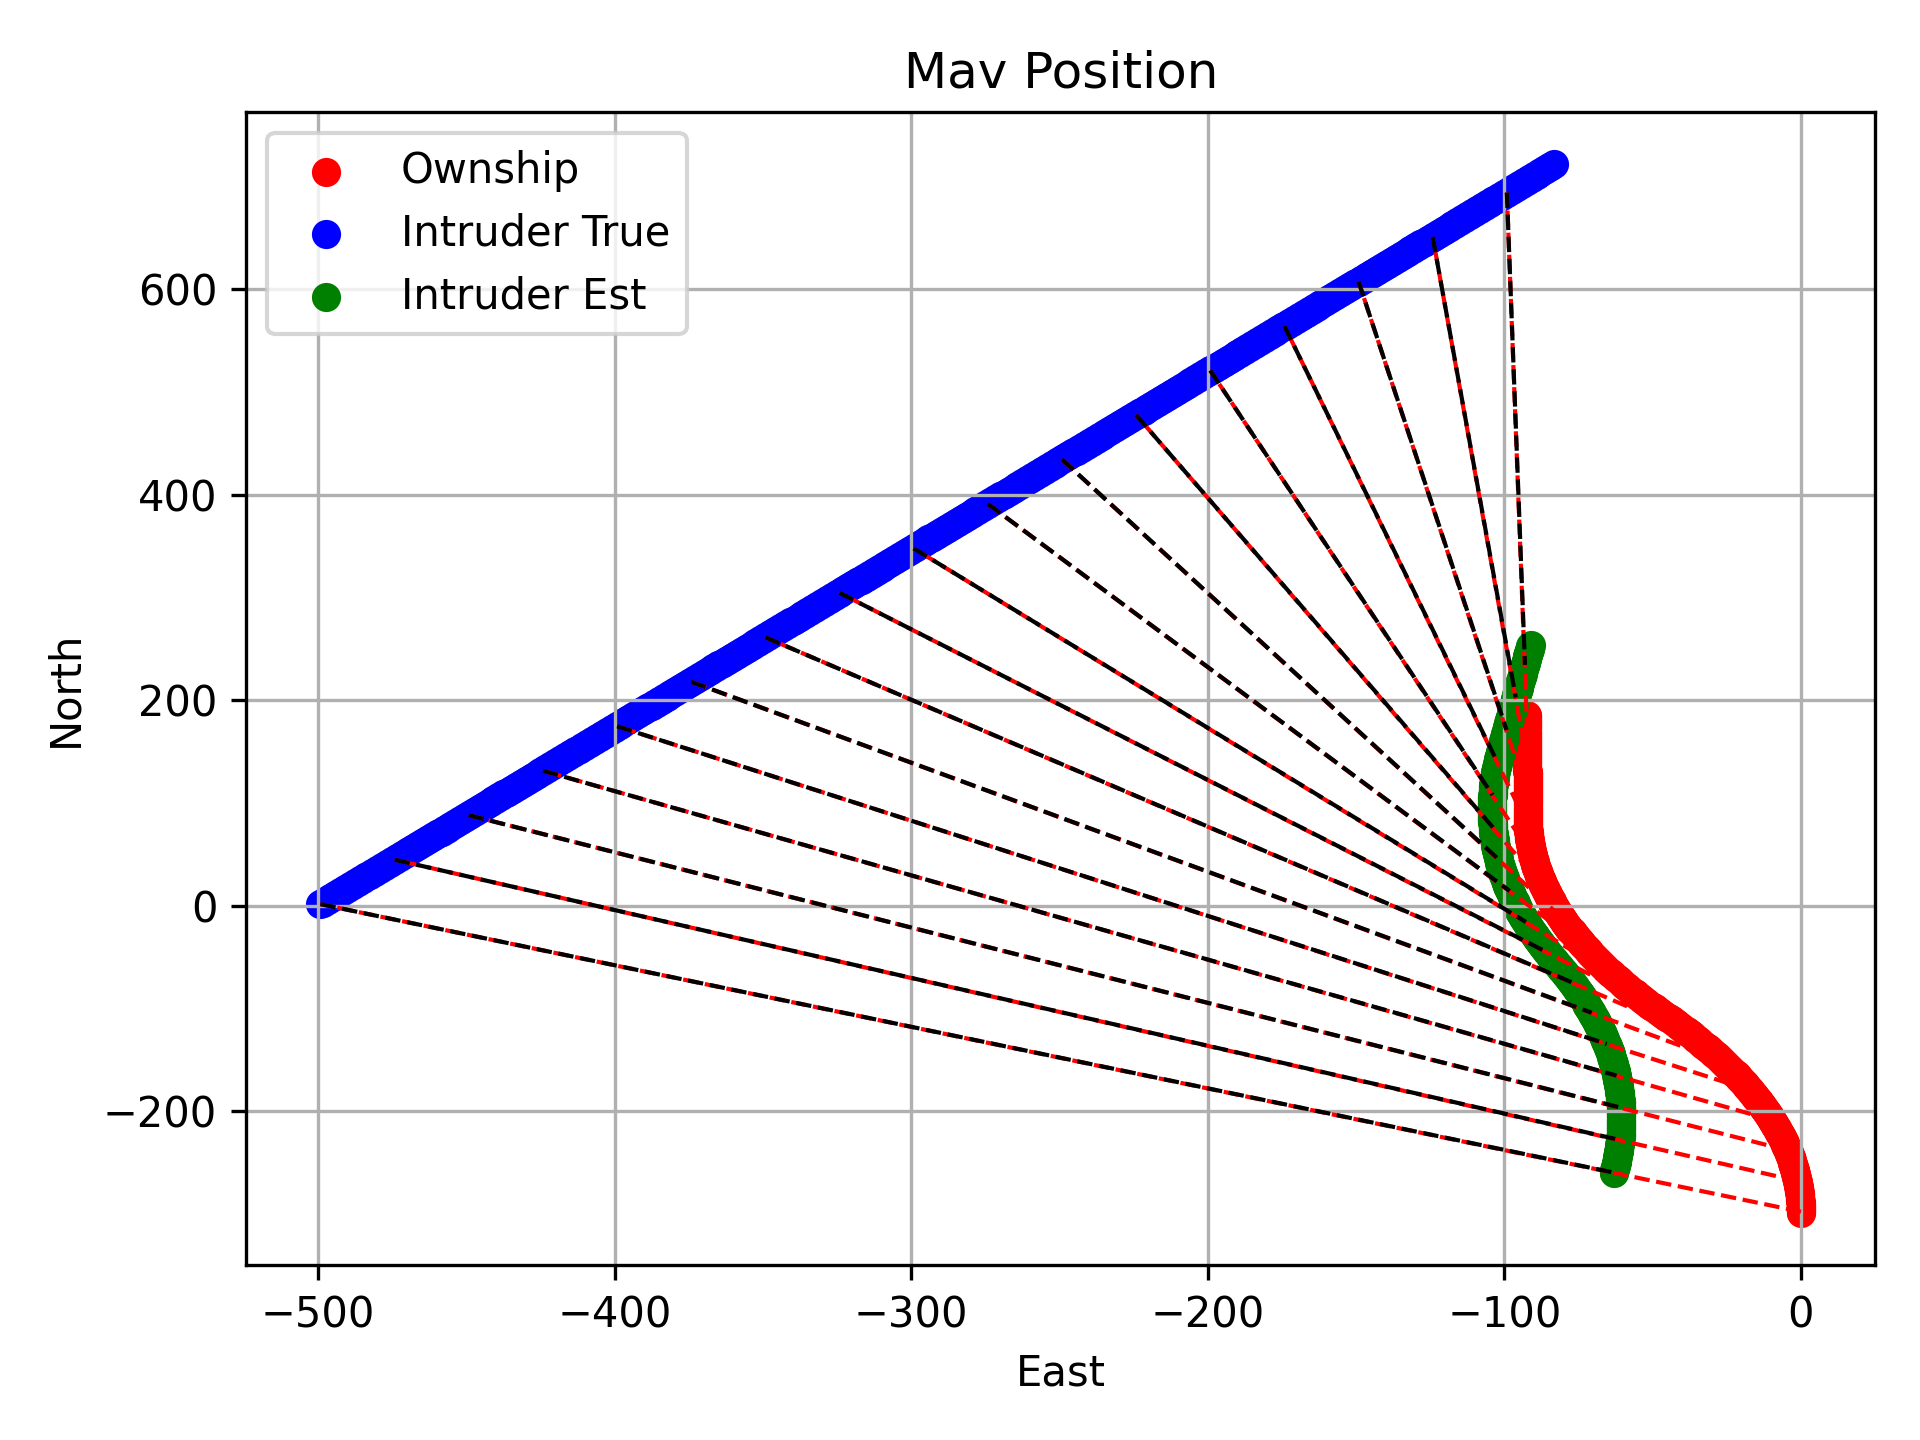
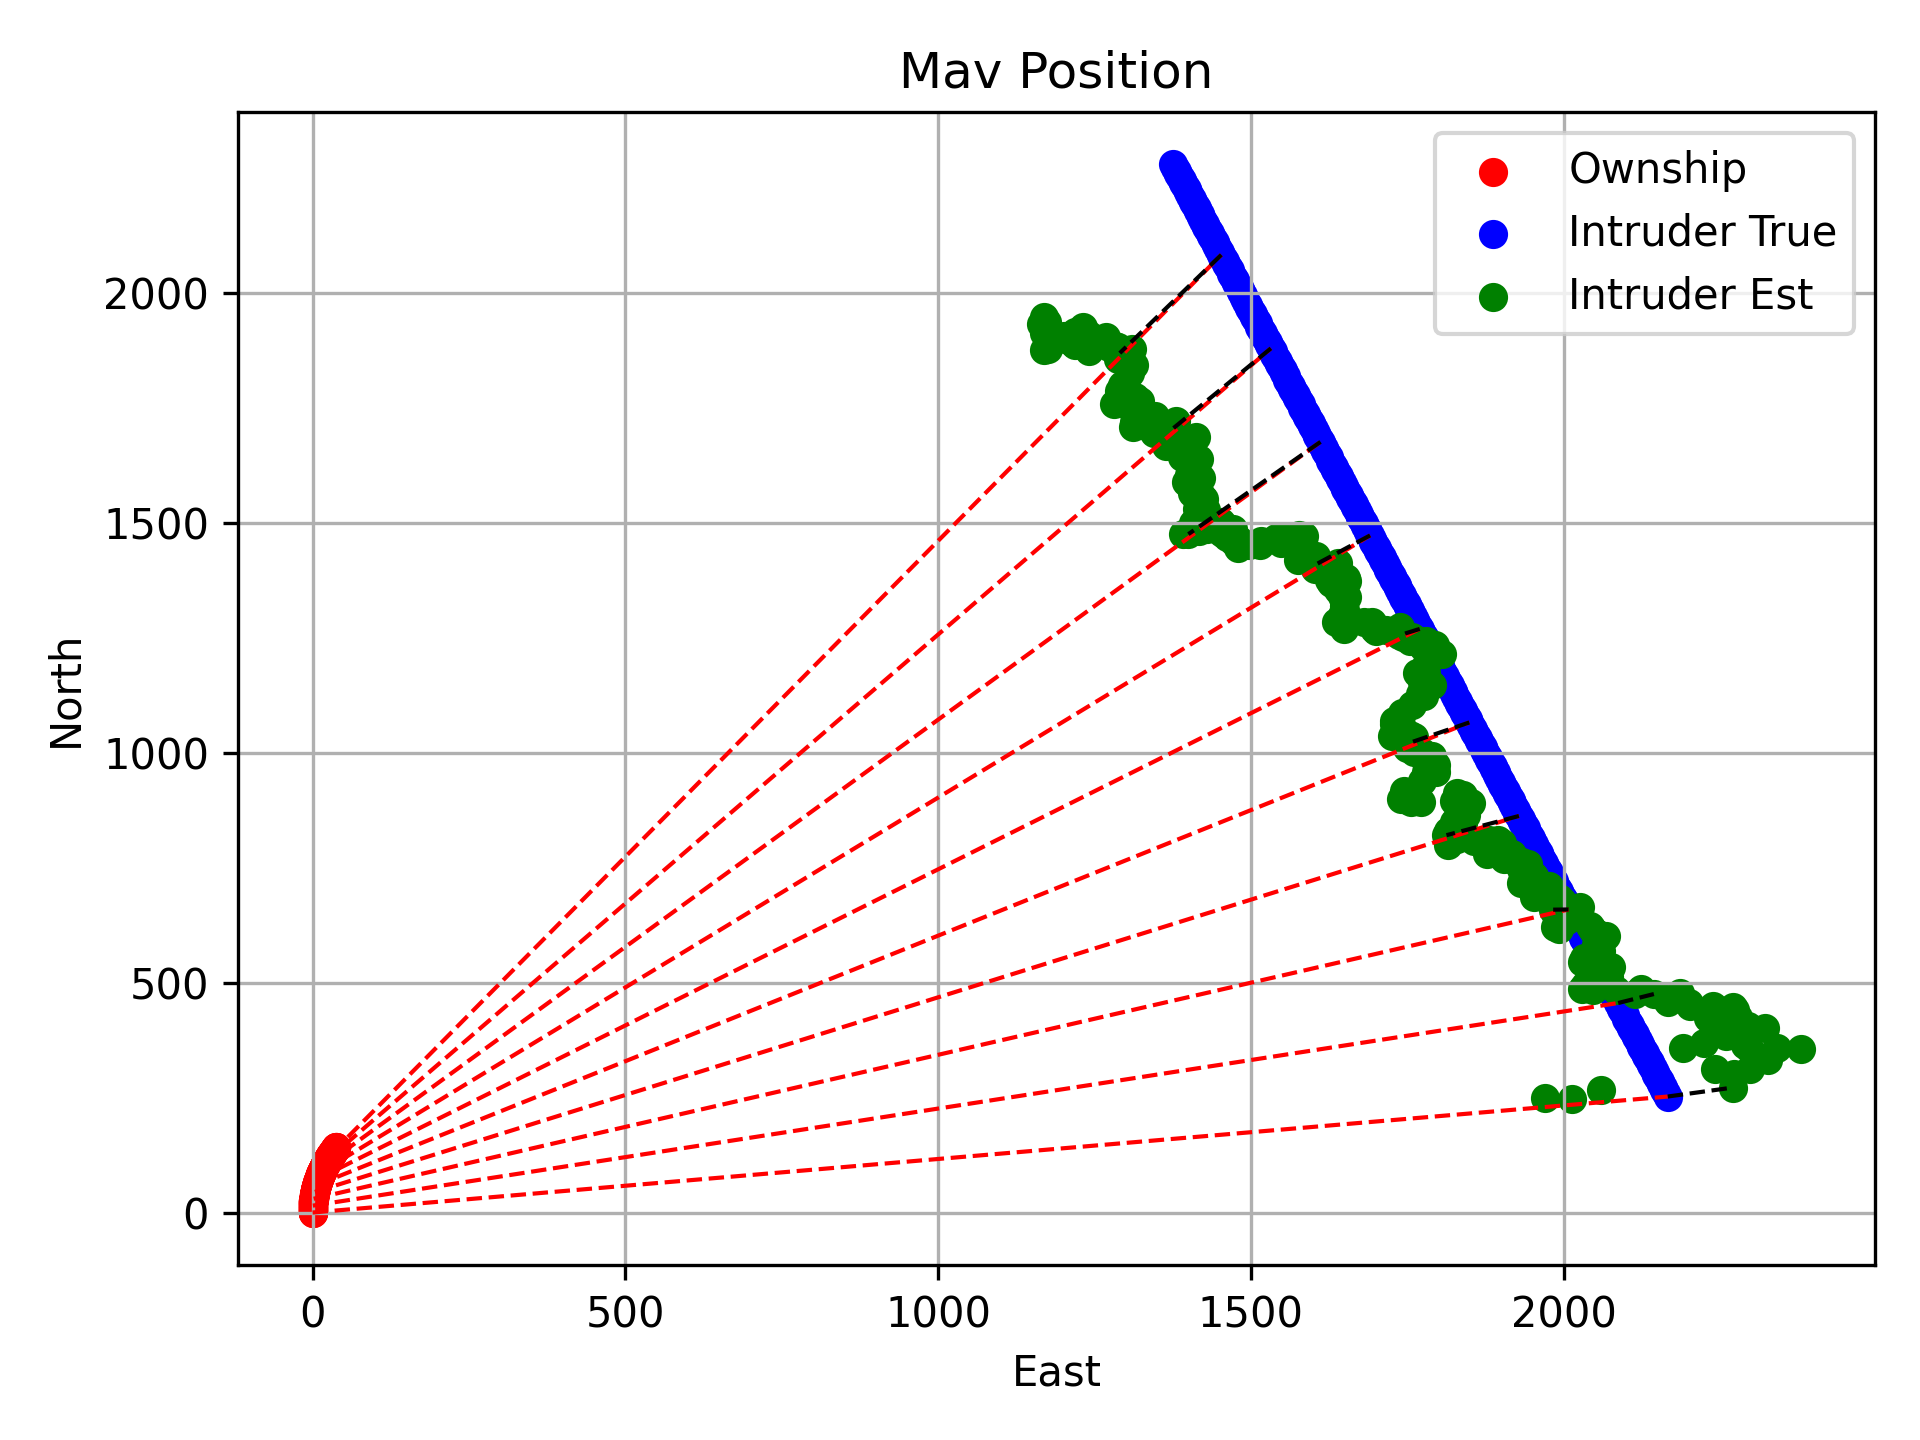
playing around with older code to see if I could get any ideas

diff --git a/ekf_modified_polar_coordinates_unknownA_testing.py b/ekf_modified_polar_coordinates_unknownA_testing.py
@@ -4,6 +4,7 @@ import matplotlib.pyplot as plt
 
 from models.ekf_modified_polar_coordinates_unknownA import kalman_update
 from models.mav_dynamics import MavDynamics
+from monte_carlo_simulations import get_simulated_data
 
 def get_own_pose_and_intruder_pose(mav1, distance, bearing):
     # Get the position of the intruder
@@ -23,23 +24,39 @@ def get_all_own_poses_and_intruder_poses(mav1_list, distances, bearings):
         intruder_poses.append(intruder_pose)
     return mav1_poses, intruder_poses
 
-bearings = np.load('data/bearing.npy')
-pixel_sizes = np.load('data/pixel_sizes.npy')
-true_distance = np.load('data/distances.npy')
-control = np.load('data/control.npy')
-relative_velocities = np.load('data/relative_velocity.npy')
-own_velocities = np.load('data/own_velocity.npy')
-mav_states = np.load('data/mav_state.npy')
-us = np.load('data/us.npy')
+# bearings = np.load('data/bearing.npy')
+# pixel_sizes = np.load('data/pixel_sizes.npy')
+# true_distance = np.load('data/distances.npy')
+# control = np.load('data/control.npy')
+# relative_velocities = np.load('data/relative_velocity.npy')
+# own_velocities = np.load('data/own_velocity.npy')
+# mav_states = np.load('data/mav_state.npy')
+# us = np.load('data/us.npy')
 
 Ts = 1/30
-A = 16
+num_scenarios = 1
+num_frames = 300
+plotting = False
+
+bearing_std = np.radians(2*np.pi/8192)
+pixel_size_std = 3*(2*np.pi/8192)
+
+all_bearings, all_pixel_sizes, all_true_distance, all_us, all_mav_states, true_As_vels, own_vels = get_simulated_data(Ts, num_scenarios, num_frames, False)
+bearings = all_bearings[0]
+mav_states = all_mav_states[0]
+pixel_sizes = all_pixel_sizes[0]
+true_distance = all_true_distance[0]
+us = all_us[0]
+
+
+A = 21
 
 mu = np.array([0, 0, bearings[0], 1/true_distance[0], A])
-sigma = np.diag(np.array([np.radians(0.1), 0.0001, np.radians(0.1), 0.01, 0.001]))**2
+sigma = np.diag(np.array([np.radians(0.1), 0.0001, np.radians(0.1), 1, 1]))**2
 
-Q = np.diag(np.array([np.radians(0.01), 1e-9, np.radians(0.01), 1e-9, 1e-9]))**2
-R = np.diag(np.array([np.radians(0.00001), 1e-15]))**2
+Q = 1*np.diag(np.array([np.radians(0.01), 1e-5, np.radians(0.01), 1e-5, 1e-7]))**2
+# R = np.diag(np.array([np.radians(0.00001), 1e-15]))**2
+R = 5*np.diag(np.array([bearing_std, pixel_size_std]))**2
 
 est_dist = []
 est_bearing = []
@@ -54,7 +71,7 @@ std_A = []
 est_A = []
 
 for bearing, pixel_size, own_mav, u in zip(bearings[1:], pixel_sizes[1:], mav_states[1:], us[1:]):
-    measurement = np.array([bearing, pixel_size])
+    measurement = np.array([bearing + np.random.normal(0, bearing_std), pixel_size + np.random.normal(0, pixel_size_std)])
     # measurement = np.array([bearing, pixel_size])
     mu, sigma = kalman_update(mu, sigma, own_mav, u, measurement, Q, R, Ts)
     # print(np.linalg.norm(mu[:2]))
@@ -88,7 +105,7 @@ plt.title('Bearing between Mavs')
 
 
 plt.subplot(223)
-plt.plot(1/true_distance, label='True inverse distance')
+plt.plot(1/np.array(true_distance), label='True inverse distance')
 plt.plot(est_dist, label='Estimated inverse distance')
 plt.xlabel('Time')
 plt.ylabel('Inverse Distance')

diff --git a/models/mht_A.py b/models/mht_A.py
@@ -157,7 +157,7 @@ def filter_pose_measurement_probabilistic(intruders_dict, mav, R_inv, R_nca, mah
         #     x = np.linspace(5, 40, 100)
         #     y = gradient*(x - A) + D2
 
-        print(A)
+        # print(A)
         D2 = get_mahalanobis_distance_intruder_state(intruder_state, intruder_sigma, measurement_pos, R_nca, print_inno)
         D2 += get_mahalanobis_distance_pixel_size(state, sigma, measurement, R_inv, A)
         # D2 = get_mahalanobis_distance_intruder_state_normalized(intruder_state, intruder_sigma, measurement_pos, R, state[-1])
@@ -255,7 +255,7 @@ def get_mahalanobis_distance_pixel_size(state, sigma, measurement, R, A):
     S = H @ sigma @ H.T + R[-1,-1]
 
     D2 = innovation_mean.T @ np.linalg.inv(S) @ innovation_mean
-    print(innovation_mean[0,0], D2[0,0], S)
+    # print(innovation_mean[0,0], D2[0,0], S)
     return D2[0,0]
 
 def get_mahalanobis_distance_intruder_state(state, sigma, measurement, R, print_inno):

diff --git a/models/ekf_modified_polar_coordinates_unknownA.py b/models/ekf_modified_polar_coordinates_unknownA.py
@@ -79,8 +79,8 @@ def kalman_update(mu, sigma, own_mav, u, measurement, Q, R, delta_t):
     innovation = np.array(measurement - z)
     innovation[0] = wrap(innovation[0])
     # innovation[2] = wrap(innovation[2])
-    # print(innovation)
     mu_bar = mu_bar + K@(innovation)
+    print(innovation[-1]**2)
     I = np.eye(len(K))
     sigma_bar = (I - K@H)@sigma_bar@(I - K@H).T + K@R@K.T
 

diff --git a/monte_carlo_testing.py b/monte_carlo_testing.py
@@ -31,6 +31,7 @@ for i in tqdm(range(num_scenarios)):
     true_distance = all_true_distance[i]
     us = all_us[i]
     true_A, intruder_vel = true_As_vels[i]
+    print(true_A)
 
     est_intruder_poses = []
 
